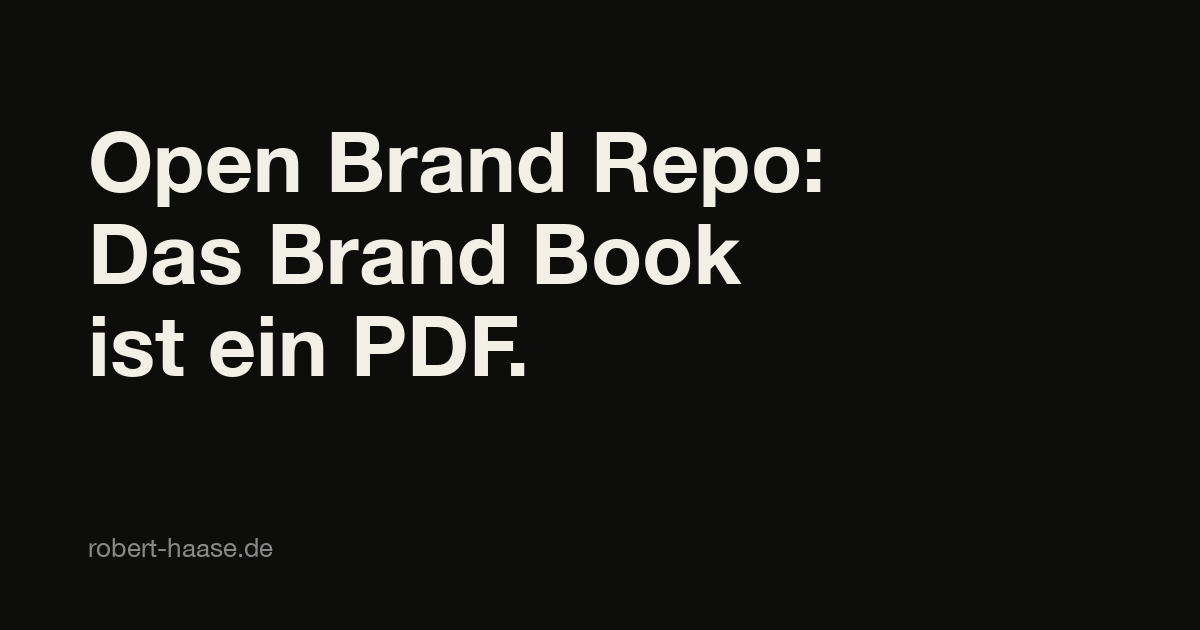
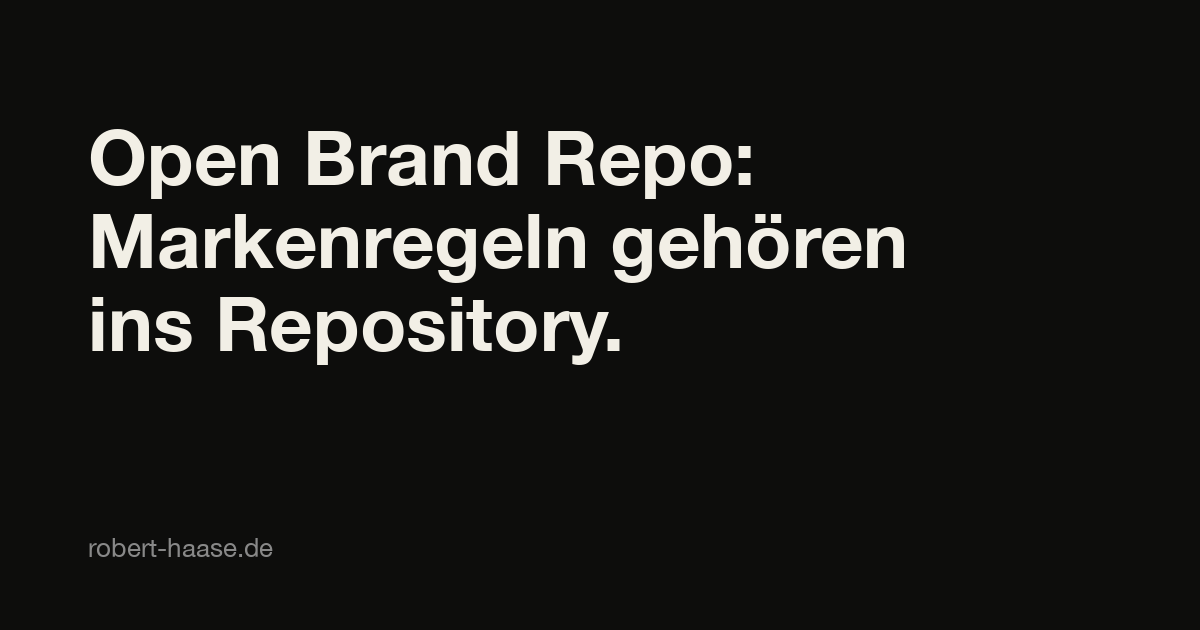
Open Brand Repo: Titel korrigiert, der Doppelpunkt erklaerte den Coin nicht sondern sein Gegenteil

Changed region(s): [[0.0617, 0.2111, 0.7708, 0.6032]]

diff --git a/en/open-brand-repo.html b/en/open-brand-repo.html
@@ -3,7 +3,7 @@
 <head>
   <meta charset="UTF-8">
   <meta name="viewport" content="width=device-width, initial-scale=1.0">
-  <title>Open Brand Repo: The Brand Book Is a PDF | Robert Haase</title>
+  <title>Open Brand Repo: Brand Rules Belong in a Repository | Robert Haase</title>
   <meta name="description" content="Switzerland prepared its writing rules for language models and its corporate design as a PDF. Why the brand specification belongs in a repository.">
   <meta name="author" content="Robert Haase">
   <link rel="icon" href="/favicon.ico" sizes="any">
@@ -20,7 +20,7 @@
 
   <!-- Open Graph -->
   <meta property="og:type" content="article">
-  <meta property="og:title" content="Open Brand Repo: The Brand Book Is a PDF">
+  <meta property="og:title" content="Open Brand Repo: Brand Rules Belong in a Repository">
   <meta property="og:description" content="Switzerland prepared its writing rules for language models and its corporate design as a PDF. Why the brand specification belongs in a repository.">
   <meta property="og:url" content="https://robert-haase.de/en/open-brand-repo.html">
   <meta property="og:image" content="https://robert-haase.de/og-repo-en.png">
@@ -35,7 +35,7 @@
 
   <!-- Twitter/X -->
   <meta name="twitter:card" content="summary_large_image">
-  <meta name="twitter:title" content="Open Brand Repo: The Brand Book Is a PDF">
+  <meta name="twitter:title" content="Open Brand Repo: Brand Rules Belong in a Repository">
   <meta name="twitter:description" content="Switzerland prepared its writing rules for language models and its corporate design as a PDF. Why the brand specification belongs in a repository.">
   <meta name="twitter:image" content="https://robert-haase.de/og-repo-en.png">
 
@@ -57,7 +57,7 @@
     "@context": "https://schema.org",
     "@type": "Article",
     "@id": "https://robert-haase.de/en/open-brand-repo.html#article",
-    "headline": "Open Brand Repo: The Brand Book Is a PDF",
+    "headline": "Open Brand Repo: Brand Rules Belong in a Repository",
     "description": "Switzerland prepared its writing rules for language models and its corporate design as a PDF. Why the brand specification belongs in a public, versioned repository.",
     "author": { "@id": "https://robert-haase.de/#person" },
     "publisher": {
@@ -103,7 +103,7 @@
   <main id="main">
     <article>
       <section class="hero">
-        <h1>Open Brand Repo:<br>The Brand Book Is a PDF.</h1>
+        <h1>Open Brand Repo:<br>Brand Rules Belong in a Repository.</h1>
         <p class="subtitle">July 2026 · Robert Haase</p>
       </section>
 

diff --git a/open-brand-repo.html b/open-brand-repo.html
@@ -3,7 +3,7 @@
 <head>
   <meta charset="UTF-8">
   <meta name="viewport" content="width=device-width, initial-scale=1.0">
-  <title>Open Brand Repo: Das Brand Book ist ein PDF | Robert Haase</title>
+  <title>Open Brand Repo: Markenregeln gehören ins Repository | Robert Haase</title>
   <meta name="description" content="Die Schweiz hat ihre Schreibregeln für Sprachmodelle aufbereitet und ihr Corporate Design als PDF. Warum die Marken-Spezifikation ins Repository gehört.">
   <meta name="author" content="Robert Haase">
   <link rel="icon" href="/favicon.ico" sizes="any">
@@ -20,7 +20,7 @@
 
   <!-- Open Graph -->
   <meta property="og:type" content="article">
-  <meta property="og:title" content="Open Brand Repo: Das Brand Book ist ein PDF">
+  <meta property="og:title" content="Open Brand Repo: Markenregeln gehören ins Repository">
   <meta property="og:description" content="Die Schweiz hat ihre Schreibregeln für Sprachmodelle aufbereitet und ihr Corporate Design als PDF. Warum die Marken-Spezifikation ins Repository gehört.">
   <meta property="og:url" content="https://robert-haase.de/open-brand-repo.html">
   <meta property="og:image" content="https://robert-haase.de/og-repo-de.png">
@@ -34,7 +34,7 @@
 
   <!-- Twitter/X -->
   <meta name="twitter:card" content="summary_large_image">
-  <meta name="twitter:title" content="Open Brand Repo: Das Brand Book ist ein PDF">
+  <meta name="twitter:title" content="Open Brand Repo: Markenregeln gehören ins Repository">
   <meta name="twitter:description" content="Die Schweiz hat ihre Schreibregeln für Sprachmodelle aufbereitet und ihr Corporate Design als PDF. Warum die Marken-Spezifikation ins Repository gehört.">
   <meta name="twitter:image" content="https://robert-haase.de/og-repo-de.png">
 
@@ -56,7 +56,7 @@
     "@context": "https://schema.org",
     "@type": "Article",
     "@id": "https://robert-haase.de/open-brand-repo.html#article",
-    "headline": "Open Brand Repo: Das Brand Book ist ein PDF",
+    "headline": "Open Brand Repo: Markenregeln gehören ins Repository",
     "description": "Die Schweiz hat ihre Schreibregeln für Sprachmodelle aufbereitet und ihr Corporate Design als PDF. Warum die Marken-Spezifikation als öffentliches, versioniertes Repository geführt gehört.",
     "author": { "@id": "https://robert-haase.de/#person" },
     "publisher": {
@@ -102,7 +102,7 @@
   <main id="main">
     <article>
       <section class="hero">
-        <h1>Open Brand Repo:<br>Das Brand Book ist ein PDF.</h1>
+        <h1>Open Brand Repo:<br>Markenregeln gehören ins Repository.</h1>
         <p class="subtitle">Juli 2026 · Robert Haase</p>
       </section>
 

diff --git a/artikel.html b/artikel.html
@@ -100,7 +100,7 @@
 
       <article>
         <p class="date">Juli 2026</p>
-        <h2 class="article-title"><a href="open-brand-repo.html">Open Brand Repo: Das Brand Book ist ein PDF.</a></h2>
+        <h2 class="article-title"><a href="open-brand-repo.html">Open Brand Repo: Markenregeln gehören ins Repository.</a></h2>
         <p>Die Schweiz hat ihre amtlichen Schreibregeln für Sprachmodelle aufbereitet und ihr Corporate Design als PDF. Warum die Marken-Spezifikation als öffentliches, versioniertes Repository geführt gehört, und wo die Grenze zwischen öffentlich und intern verläuft.</p>
       </article>
 

diff --git a/en/articles.html b/en/articles.html
@@ -101,7 +101,7 @@
 
       <article>
         <p class="date">July 2026</p>
-        <h2 class="article-title"><a href="open-brand-repo.html">Open Brand Repo: The Brand Book Is a PDF.</a></h2>
+        <h2 class="article-title"><a href="open-brand-repo.html">Open Brand Repo: Brand Rules Belong in a Repository.</a></h2>
         <p>Switzerland prepared its official writing rules for language models and its corporate design as a PDF. Why the brand specification belongs in a public, versioned repository, and where the line between public and internal runs.</p>
       </article>
 